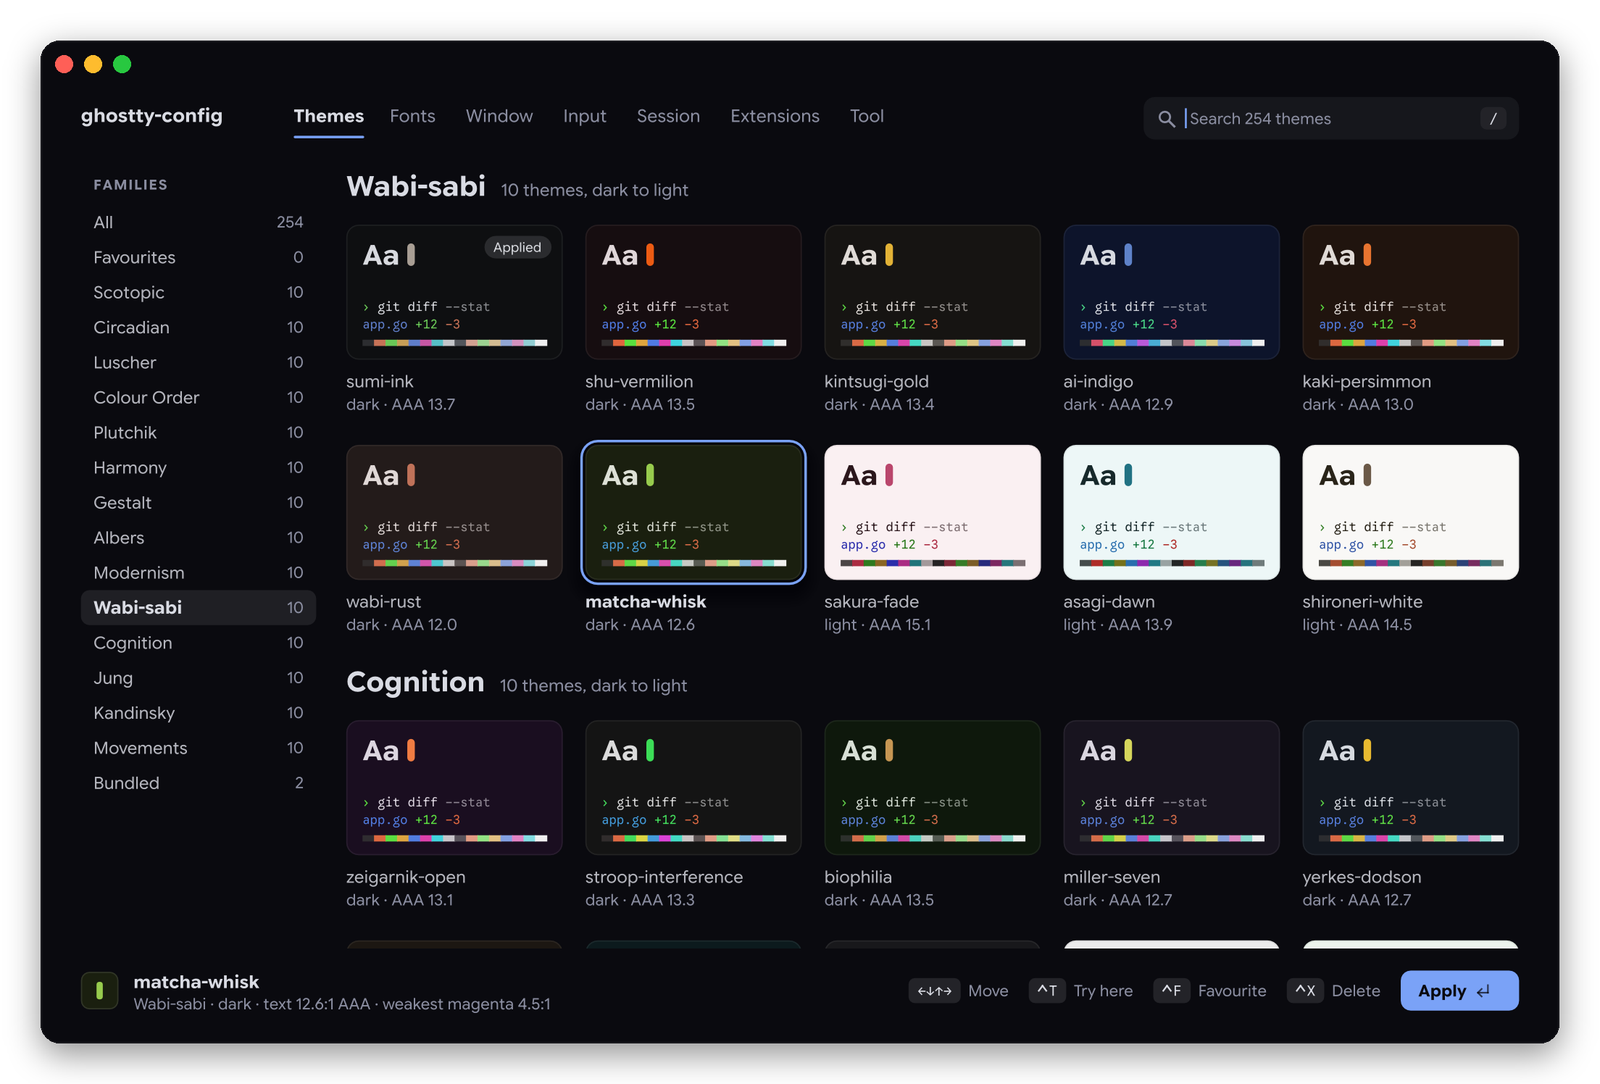
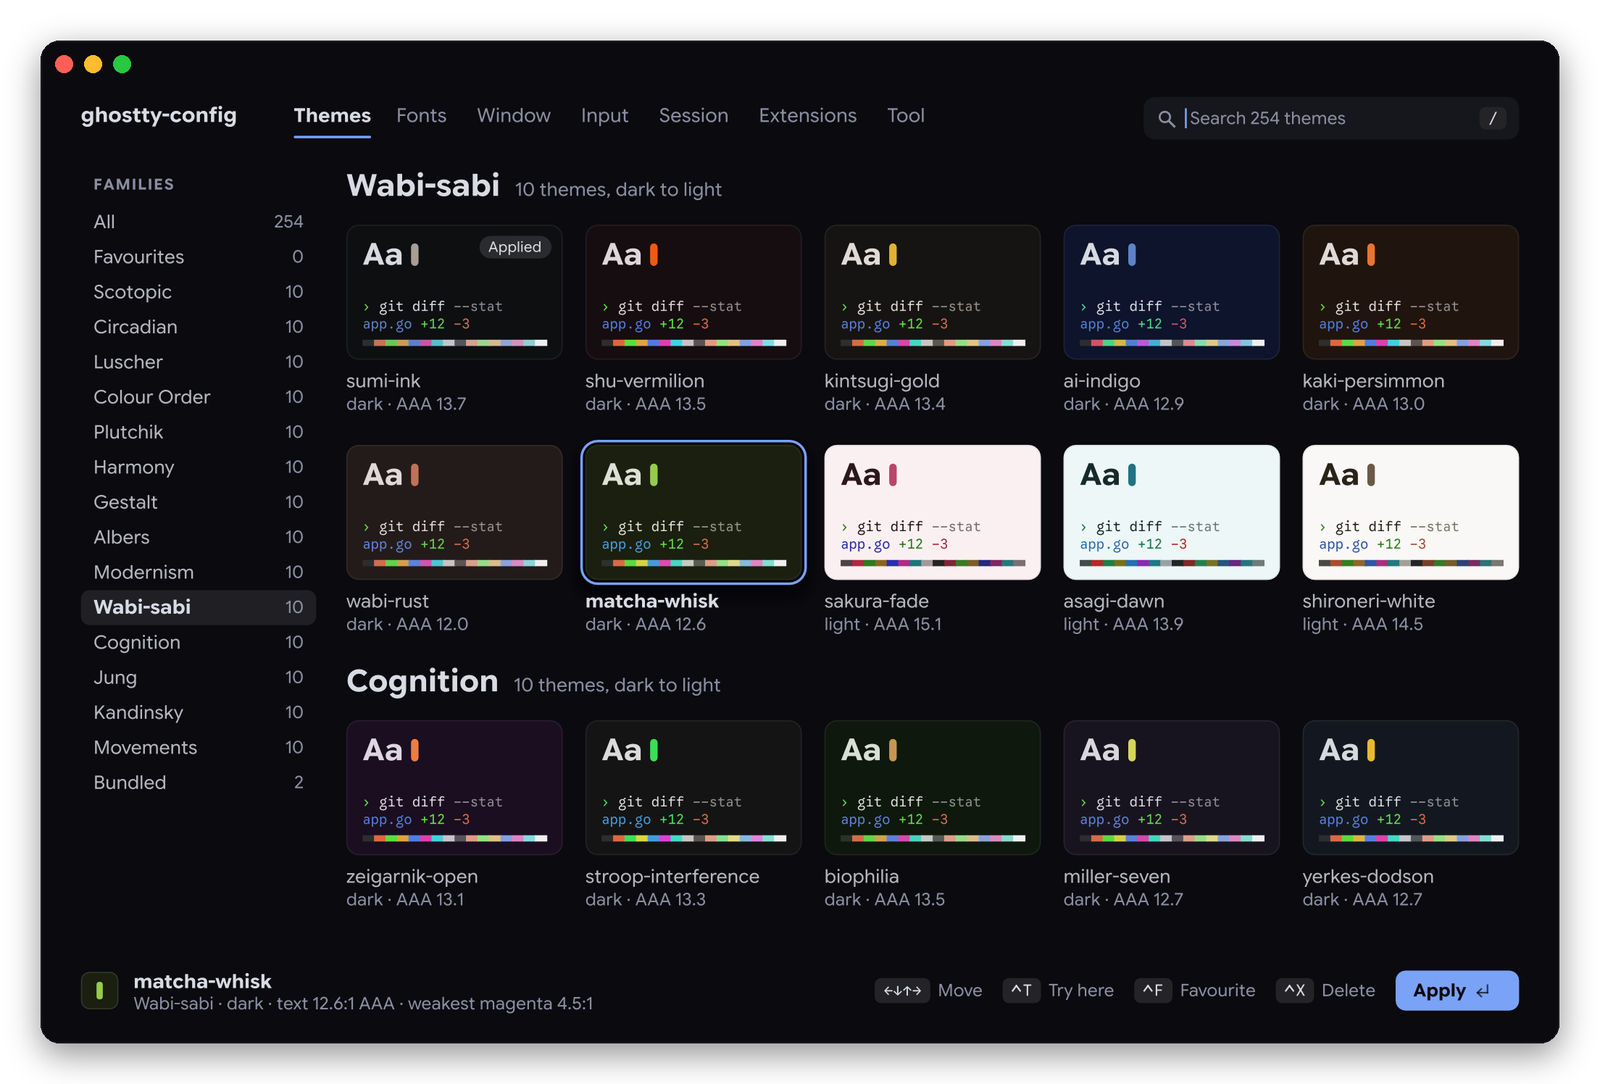
v1.1.3

diff --git a/internal/tui/images.go b/internal/tui/images.go
@@ -36,7 +36,11 @@ type imageStore struct {
 }
 
 func newImageStore(out io.Writer) *imageStore {
-	return &imageStore{ids: map[string]uint32{}, used: map[string]int{}, next: 0x000100, out: out}
+	// Each run numbers its pictures from a point of its own. A terminal keeps
+	// what an earlier run left on the alternate screen, and a picture sent
+	// under a number still in use there would be drawn over the old one.
+	base := uint32(0x010000 + randInt(0xD00000))
+	return &imageStore{ids: map[string]uint32{}, used: map[string]int{}, next: base, out: out}
 }
 
 // maxImages bounds what the terminal holds: past it the oldest are freed.
@@ -119,12 +123,35 @@ func (s *imageStore) flush() {
 
 // reset forgets everything and frees it in the terminal.
 func (s *imageStore) reset() {
-	s.ids = map[string]uint32{}
-	s.used = map[string]int{}
+	drop := s.dropAll()
 	s.queue.Reset()
 	if s.out != nil {
-		_, _ = io.WriteString(s.out, kimg.DeleteAll())
+		_, _ = io.WriteString(s.out, drop)
 	}
+}
+
+// dropAll forgets every picture and returns what frees each one in the
+// terminal, its placements with it. Deleting by number reaches the pictures
+// shown through placeholders, which a plain "delete everything visible" may
+// leave behind.
+func (s *imageStore) dropAll() string {
+	var b strings.Builder
+	for _, id := range s.ids {
+		b.WriteString(kimg.Delete(id))
+	}
+	b.WriteString(kimg.DeleteAll())
+	s.ids = map[string]uint32{}
+	s.used = map[string]int{}
+	return b.String()
+}
+
+// dropPictures frees every picture while the alternate screen that holds
+// them is still up: on the way out.
+func (m *Model) dropPictures() tea.Cmd {
+	if m.imgs == nil {
+		return nil
+	}
+	return tea.Raw(m.imgs.dropAll())
 }
 
 // supportsImages reads the environment: Ghostty and Kitty draw Unicode

diff --git a/internal/tui/pixel_test.go b/internal/tui/pixel_test.go
@@ -3,6 +3,7 @@ package tui
 import (
 	"bytes"
 	"context"
+	"fmt"
 	"image/png"
 	"io"
 	"os"
@@ -44,6 +45,7 @@ func (h *harness) shot(name string) {
 	}
 	m.regions = m.regions[:0]
 	c := pix.New(m.width*m.px.cw, m.height*m.px.ch, float32(m.px.ch)/pixUnit)
+	c.TextScale = pixText
 	m.drawScreen(c)
 	var b bytes.Buffer
 	_ = png.Encode(&b, c.Img)
@@ -308,5 +310,37 @@ func TestCellSizeComesFromTheTerminal(t *testing.T) {
 	h.m.View()
 	if !strings.Contains(out.String(), "s="+itoa(118*19)+",v=42") {
 		t.Fatal("the rows were not drawn again at the new cell size")
+	}
+}
+
+// Leaving frees every picture by its number, while the screen that holds
+// them is up, and two runs never number their pictures alike.
+func TestPicturesAreFreedOnTheWayOut(t *testing.T) {
+	var out bytes.Buffer
+	h := newHarnessWith(t, pixConfig, Options{NoReload: true, Images: true, ImgOut: &out, Pixel: true, PixCell: [2]int{17, 38}})
+	h.m.View()
+	var ids []uint32
+	for _, id := range h.m.imgs.ids {
+		ids = append(ids, id)
+	}
+	if len(ids) == 0 {
+		t.Fatal("no picture was sent")
+	}
+	cmd := h.m.dropPictures()
+	if cmd == nil {
+		t.Fatal("nothing frees the pictures")
+	}
+	raw, ok := cmd().(tea.RawMsg)
+	if !ok {
+		t.Fatalf("freeing the pictures is %T", cmd())
+	}
+	for _, id := range ids {
+		if !strings.Contains(fmt.Sprint(raw.Msg), "d=I,i="+itoa(int(id))+",") {
+			t.Fatalf("picture %d is not freed by number", id)
+		}
+	}
+	other := newImageStore(nil)
+	if other.next == newImageStore(nil).next && other.next == h.m.imgs.next {
+		t.Fatal("runs number their pictures alike")
 	}
 }

diff --git a/internal/pix/pix.go b/internal/pix/pix.go
@@ -21,16 +21,18 @@ import (
 
 // Canvas is an RGBA picture drawn in logical units.
 type Canvas struct {
-	Img  *image.RGBA
-	S    float32
-	clip image.Rectangle
-	ras  vector.Rasterizer
+	Img *image.RGBA
+	S   float32
+	// TextScale enlarges every face handed out, leaving the layout alone.
+	TextScale float32
+	clip      image.Rectangle
+	ras       vector.Rasterizer
 }
 
 // New makes a canvas of w by h device pixels.
 func New(w, h int, s float32) *Canvas {
 	img := image.NewRGBA(image.Rect(0, 0, w, h))
-	return &Canvas{Img: img, S: s, clip: img.Bounds()}
+	return &Canvas{Img: img, S: s, TextScale: 1, clip: img.Bounds()}
 }
 
 // W and H are the size in logical units.
@@ -157,7 +159,7 @@ func (c *Canvas) Shadow(x, y, w, h, r, spread, dy float32, alpha float64) {
 
 // Face is a face of the embedded fonts at a logical size.
 func (c *Canvas) Face(mono, bold bool, px float32) font.Face {
-	return kimg.Face(mono, bold, float64(px*c.S))
+	return kimg.Face(mono, bold, float64(px*c.S*c.TextScale))
 }
 
 // substitutes stand in for symbols no embedded font draws.

diff --git a/cmd/ghostty-config/main.go b/cmd/ghostty-config/main.go
@@ -4,6 +4,7 @@
 package main
 
 import (
+	"errors"
 	"flag"
 	"fmt"
 	"os"
@@ -16,7 +17,7 @@ import (
 )
 
 // version is overridden at build time with -ldflags "-X main.version=...".
-var version = "1.1.2"
+var version = "1.1.3"
 
 func main() {
 	configPath := flag.String("config", "", "Ghostty config file to edit instead of the default ones")
@@ -138,6 +139,12 @@ Keys:
 	// The alternate screen and the mouse are asked for by the view itself.
 	program := tea.NewProgram(model)
 	if _, err := program.Run(); err != nil {
+		// Interrupted from outside (a signal, a kill): leave quietly, the
+		// way a shell expects, writing nothing more.
+		if errors.Is(err, tea.ErrInterrupted) || errors.Is(err, tea.ErrProgramKilled) {
+			fmt.Print("\x1b_Ga=d,d=A,q=2\x1b\\")
+			os.Exit(130)
+		}
 		fail("%v", err)
 	}
 	if !*noImages && (*forceImages || tui.ImagesSupported()) {

diff --git a/internal/tui/app.go b/internal/tui/app.go
@@ -642,7 +642,7 @@ func (m *Model) leave() tea.Cmd {
 	_ = m.state.Save()
 	m.quitting = true
 	m.live.Close()
-	return tea.Sequence(m.reload(), tea.Raw(unwatchScheme), tea.Quit)
+	return tea.Sequence(m.reload(), tea.Raw(unwatchScheme), m.dropPictures(), tea.Quit)
 }
 
 // abandon leaves without writing anything and puts the terminal's colours
@@ -653,5 +653,5 @@ func (m *Model) abandon() (tea.Model, tea.Cmd) {
 	_ = m.state.Save()
 	m.quitting = true
 	m.exitNote = "Left without writing anything"
-	return m, tea.Sequence(tea.Raw(unwatchScheme), tea.Quit)
+	return m, tea.Sequence(tea.Raw(unwatchScheme), m.dropPictures(), tea.Quit)
 }

diff --git a/internal/tui/pixel.go b/internal/tui/pixel.go
@@ -26,6 +26,9 @@ import (
 // written in these units and scales with the terminal's font.
 const pixUnit = 22
 
+// pixText is how much larger than the layout's own sizes the text is drawn.
+const pixText = 1.1
+
 type pixEngine struct {
 	cw, ch  int // a cell in device pixels, exactly
 	viaFile bool
@@ -106,6 +109,7 @@ func (m *Model) renderPixel() string {
 	e := m.px
 	W, H := m.width*e.cw, m.height*e.ch
 	c := pix.New(W, H, float32(e.ch)/pixUnit)
+	c.TextScale = pixText
 	m.drawScreen(c)
 
 	ui := m.panelChrome()
